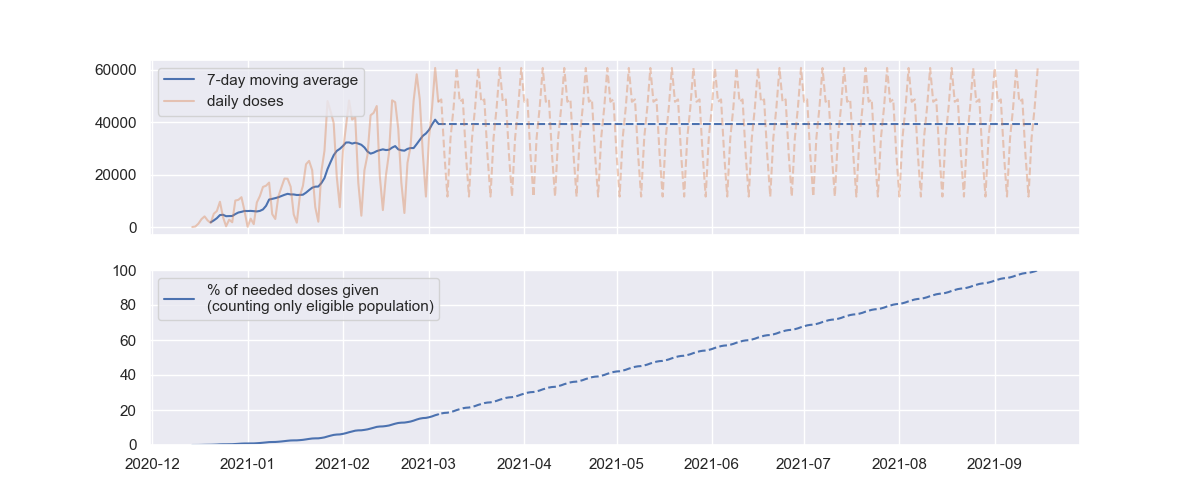
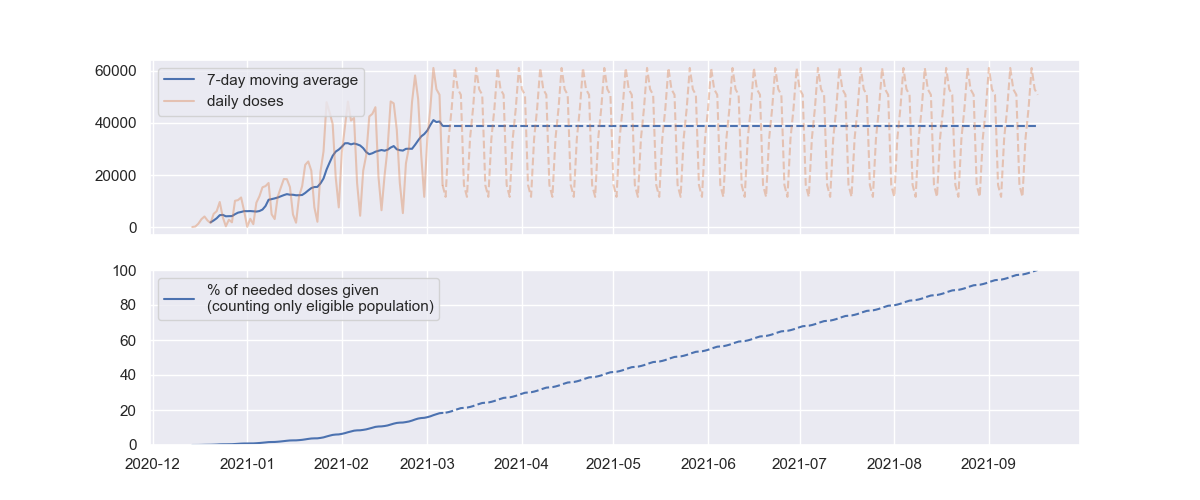
2021-03-07

diff --git a/README.md b/README.md
@@ -10,10 +10,10 @@ Raw data was obtained from https://www.dhs.wisconsin.gov/covid-19/vaccine-data.h
 
 ```
 $ python trax.py
-Data up through 2021-03-04, recent data is usually corrected to be higher
-39394 average doses per day over past 7 days (+7794 compared to 2 weeks ago)
-36.3 weeks (2021-11-13) for EVERY PERSON to get 2 doses
-27.9 weeks (2021-09-15) for all eligible people (over 16 years old) to get 2 doses
+Data up through 2021-03-06, recent data is usually corrected to be higher
+38922 average doses per day over past 7 days (+4082 compared to 2 weeks ago)
+36.5 weeks (2021-11-16) for EVERY PERSON to get 2 doses
+27.9 weeks (2021-09-17) for all eligible people (over 16 years old) to get 2 doses
 ```
 
 # Charts
